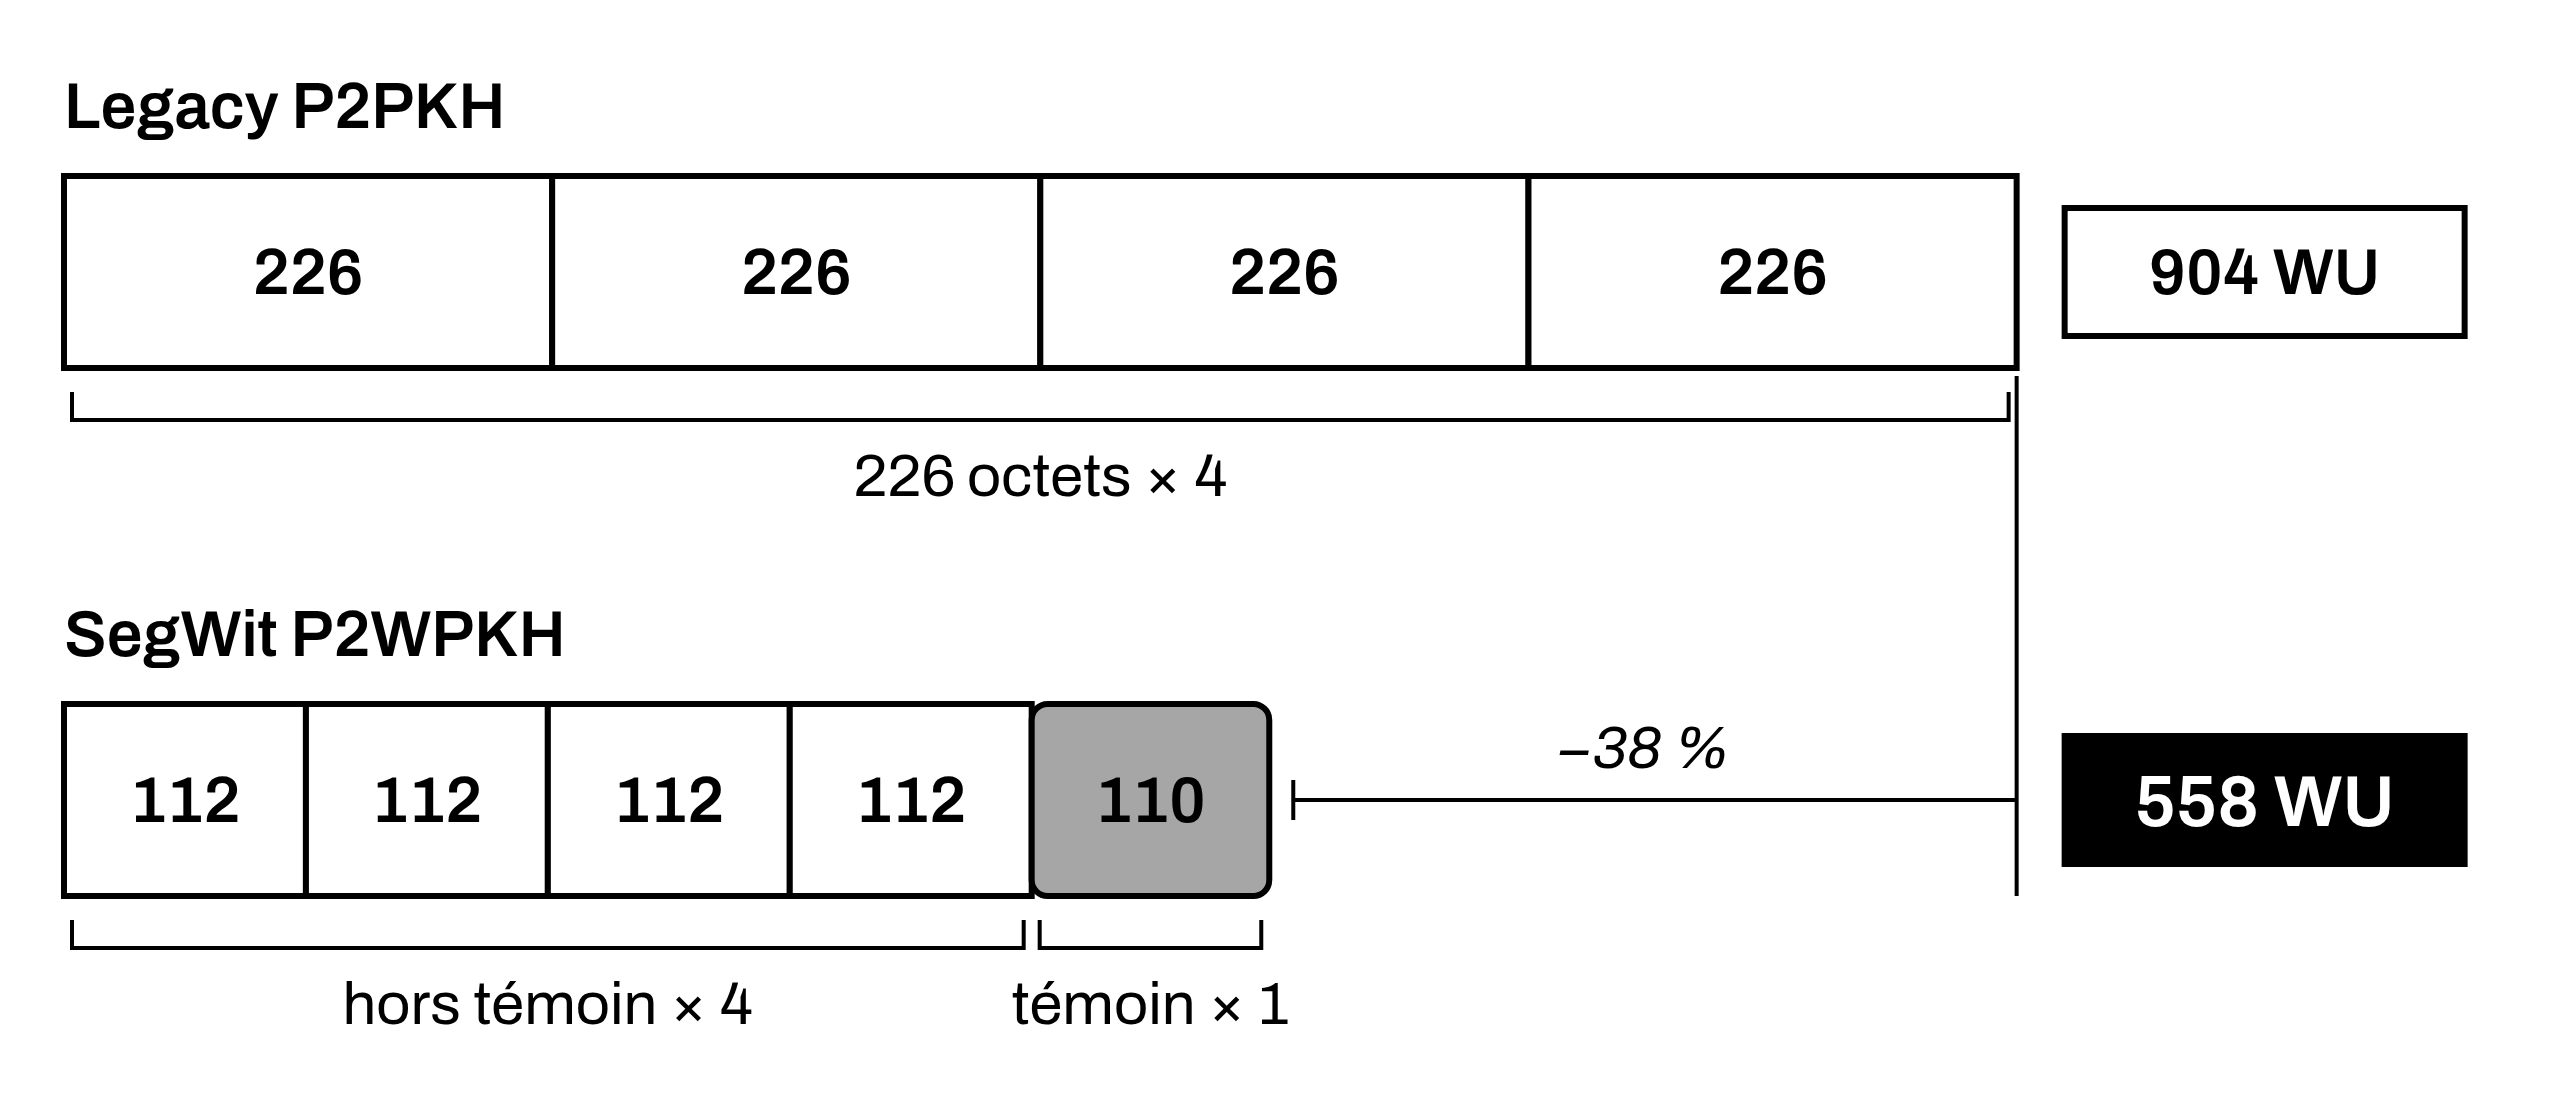
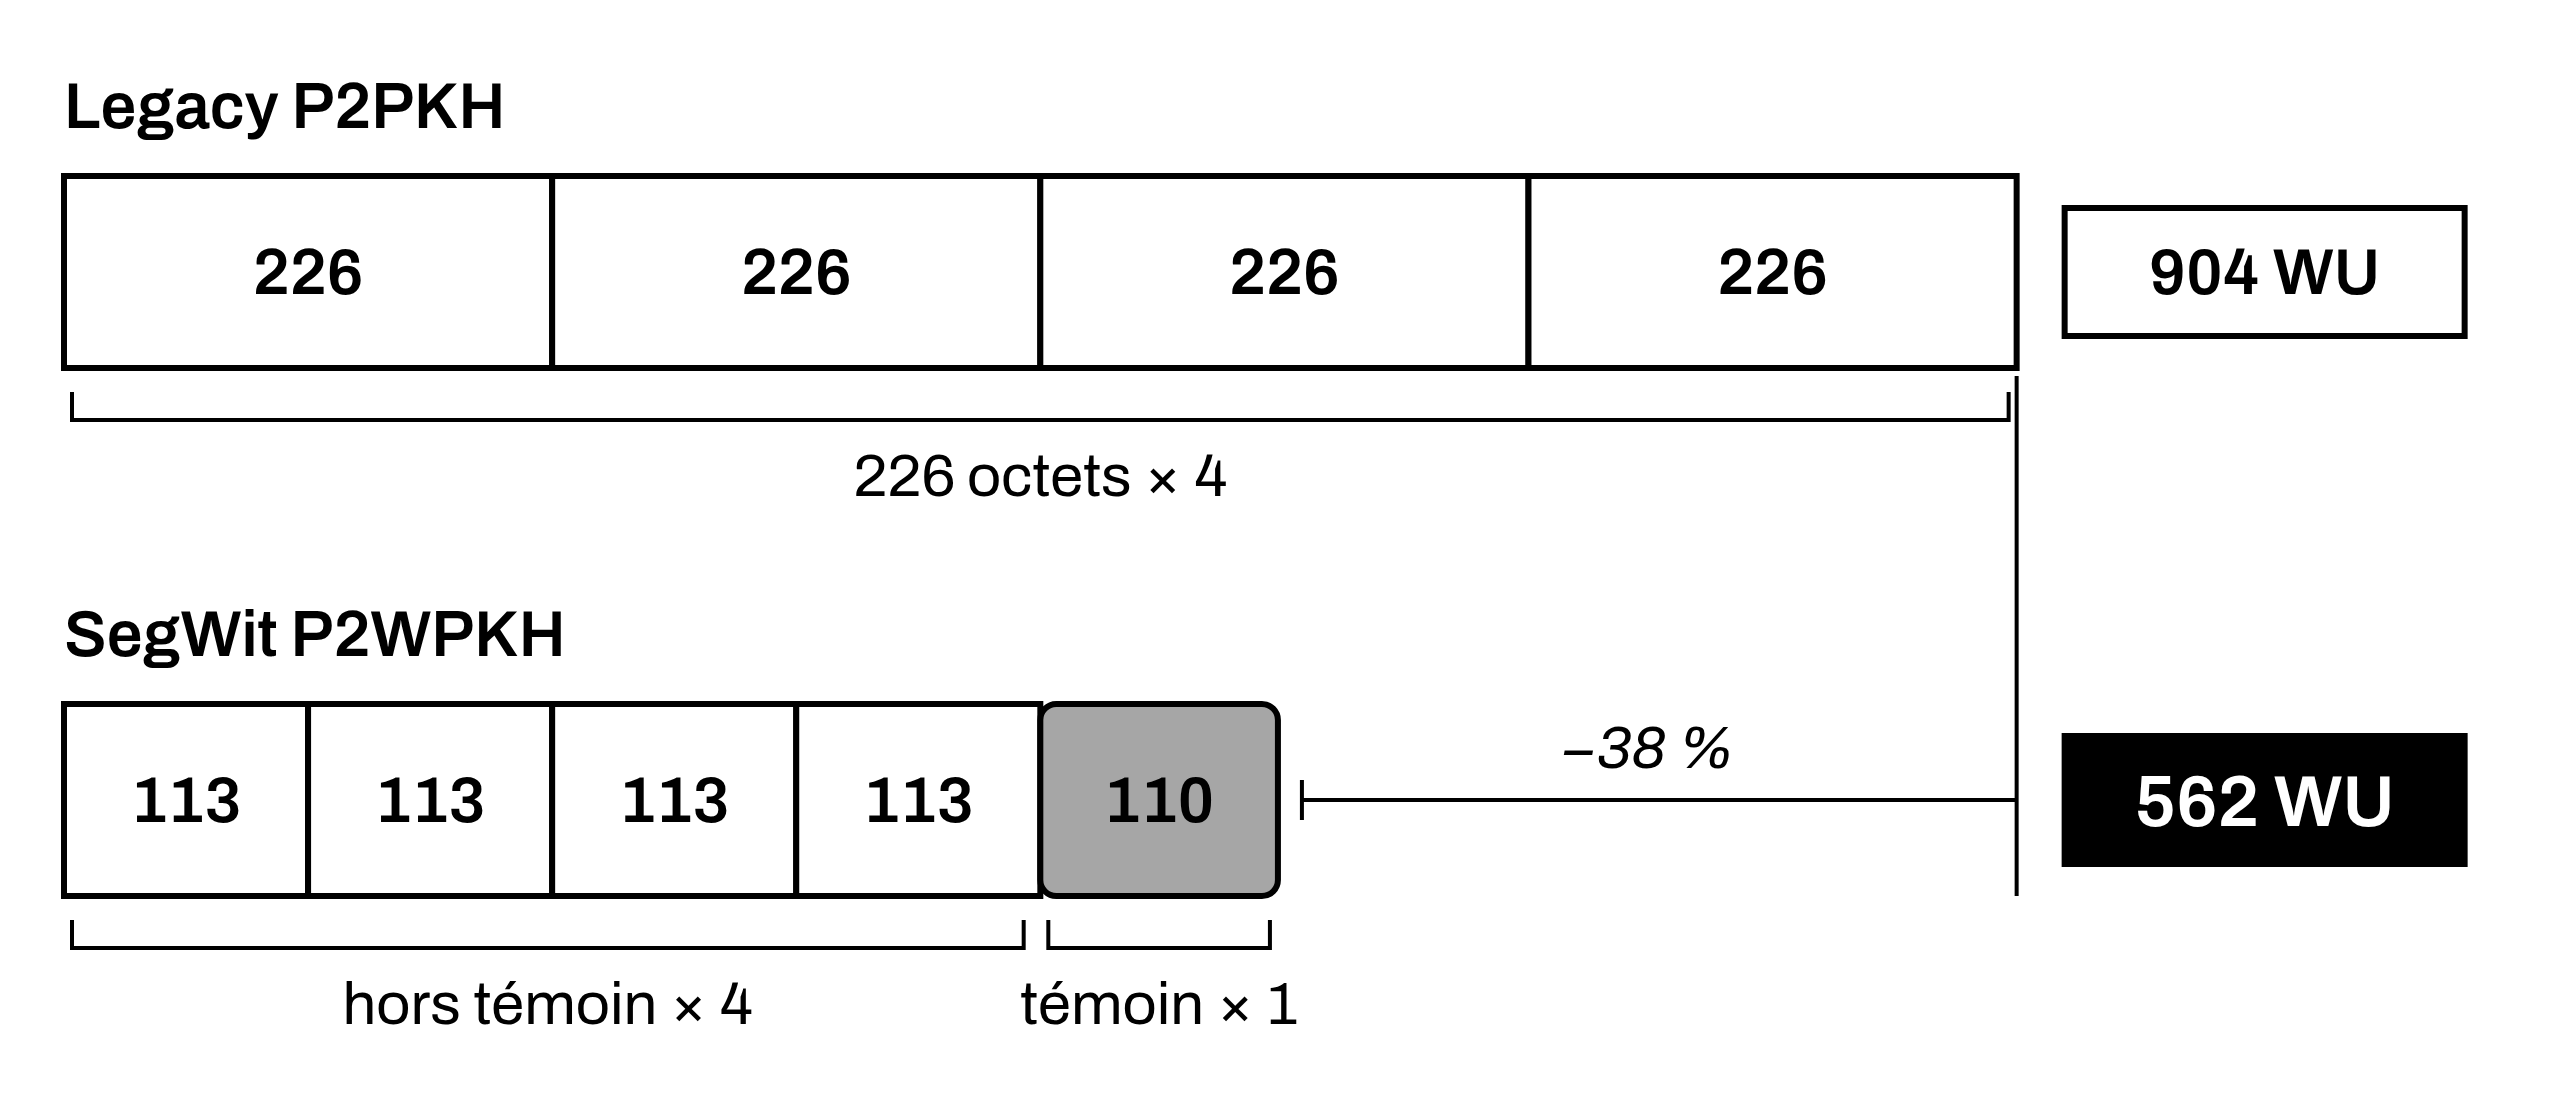
fix(visuals): align weight-unit, channel capacity and coinjoin captions

diff --git a/definitions/fr/c/coinjoin/definition.md b/definitions/fr/c/coinjoin/definition.md
@@ -2,7 +2,7 @@ Le coinjoin est une technique permettant de casser le traçage des bitcoins. Il 
 
 Le fonctionnement général du coinjoin est le suivant : différents utilisateurs souhaitant mixer déposent un montant en input d'une transaction. Ces inputs ressortiront en différents outputs, le plus souvent de même montant (aux frais près, et parfois avec du change). À la sortie de la transaction, il est donc difficile de déterminer quel output appartient à quel utilisateur. Le lien entre les entrées et les sorties n'est pas supprimé, il est rendu ambigu : la transaction n'indique pas quelle entrée finance quelle sortie. Le lien entre chaque utilisateur et chaque UTXO est brouillé, de la même manière que l'historique de chaque pièce.
 
-![Transaction coinjoin Whirlpool 323df21f…dec2 : cinq UTXO de participants différents entrent, cinq sorties de 5 000 000 sats ressortent sans propriétaire identifiable, et 30 000 sats partent en frais de minage.](./assets/image-1.png)
+![Transaction coinjoin Whirlpool 323df21f…dec2 : cinq UTXO de participants différents entrent, cinq sorties de 5 000 000 sats ressortent sans lien certain avec leurs entrées, et 30 000 sats partent en frais de minage.](./assets/image-1.png)
 
 Pour permettre le coinjoin sans qu'aucun utilisateur ne perde la main sur ses fonds à aucun moment, la transaction est d'abord construite par un coordinateur puis transmise à chaque utilisateur. Chacun d'eux signe alors la transaction de son côté en vérifiant qu'elle lui convient, puis toutes les signatures sont ajoutées à la transaction. Si un utilisateur ou le coordinateur tente de voler les fonds des autres en modifiant les outputs de la transaction coinjoin, alors les signatures seront invalides et la transaction sera refusée par les nœuds. Lorsque l'enregistrement de l'output des participants se fait à l'aide de signatures aveuglées de Chaum pour éviter le lien avec l'input, on parle de « *Chaumian coinjoin* ».
 

diff --git a/definitions/fr/c/capacite-de-canal-lightning/definition.md b/definitions/fr/c/capacite-de-canal-lightning/definition.md
@@ -1,3 +1,3 @@
 Quantité de bitcoins bloqués sur une adresse multisignatures qui représente un canal de paiement sur le Lightning Network. La capacité d'un canal est donc la quantité totale de sats engagés dans ce canal spécifique. La part réellement transmissible est plus faible : chaque partie doit conserver une réserve de canal (`channel_reserve_satoshis`), et celle qui a ouvert le canal paie les frais de la transaction d'engagement. La capacité est définie au moment de la création du canal par la somme des fonds que les parties engagent dans le canal, et elle peut ensuite changer par un *splice*. L'« *inbound capacity* », ou « capacité entrante », désigne la quantité maximale de bitcoins qu'un nœud peut recevoir via un canal. L'« *outbound capacity* », ou « capacité sortante » représente la quantité maximale de bitcoins qu'un nœud peut envoyer à travers un canal spécifique.
 
-![Un canal Lightning de 1 000 000 sats entre Alice et Bob : la capacité reste fixe, et un paiement de 300 000 sats d'Alice à Bob déplace la frontière entre la capacité sortante et la capacité entrante d'Alice.](./assets/image-1.png)
+![Un canal Lightning de 1 000 000 sats entre Alice et Bob : la capacité reste fixe pendant les paiements, et un paiement de 300 000 sats d'Alice à Bob déplace la frontière entre la capacité sortante et la capacité entrante d'Alice.](./assets/image-1.png)

diff --git a/definitions/fr/w/weight-unit/definition.md b/definitions/fr/w/weight-unit/definition.md
@@ -10,7 +10,7 @@ $$113 \times 4 + 110 \times 1 = 452 + 110 = 562\ WU$$
 
 Cela représente une réduction d'environ 38 % par rapport à la transaction *legacy* équivalente, ce qui permet d'inclure davantage de transactions dans un bloc.
 
-![À la même échelle, une transaction legacy P2PKH de 226 octets pèse 904 WU, tandis qu'une transaction SegWit P2WPKH équivalente pèse 558 WU, car ses 110 octets de témoin ne comptent qu'une fois.](./assets/image-1.png)
+![À la même échelle, une transaction legacy P2PKH de 226 octets pèse 904 WU, tandis qu'une transaction SegWit P2WPKH équivalente pèse 562 WU, car ses 110 octets de témoin ne comptent qu'une fois.](./assets/image-1.png)
 
 La limite de bloc est fixée à 4 000 000 WU. Si un bloc ne contient que des transactions *legacy*, cette limite est équivalente à l'ancienne limite de 1 000 000 d'octets ($1\,000\,000 \times 4 = 4\,000\,000$), ce qui assure la rétrocompatibilité avec les nœuds non mis à jour. En pratique, avec une majorité de transactions SegWit, les blocs atteignent environ 2 à 3 Mo en taille réelle. Le maximum théorique approche 4 Mo, mais uniquement dans le cas pathologique d'un bloc rempli presque exclusivement de données *witness*.
 
